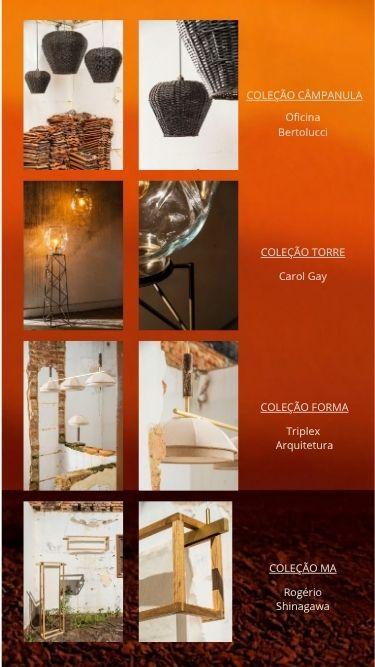
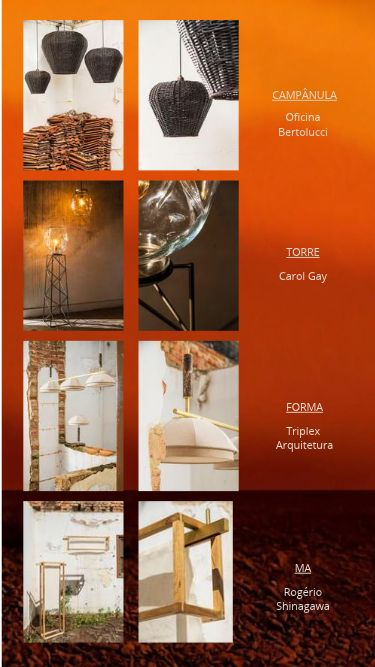
feat: remove contact form and update image

diff --git a/pages/index.tsx b/pages/index.tsx
@@ -11,7 +11,8 @@ const slidesMobile = [
 
 const slidesDesktop = [
   { src: '/imgs/home/colecao-70-anos-desktop.jpeg', alt: 'Coleção 70 Anos' },
-  { src: '/imgs/home/colecao-1-desktop.jpeg', alt: 'Coleção 1' },
+  { src: '/imgs/home/colecao-xl-1.jpeg', alt: 'Coleção 1' },
+  { src: '/imgs/home/colecao-xl-2.jpeg', alt: 'Coleção 2' },
 ]
 
 const LOCK_MS = 900

diff --git a/pages/contato.tsx b/pages/contato.tsx
@@ -31,7 +31,6 @@ function Contact({}) {
               nossas redes sociais. Há muitas coisas a descobrir, conheça mais
               do mundo Bertolucci.
             </p>
-            <ContactForm />
           </div>
 
           <div className="pb-20">
